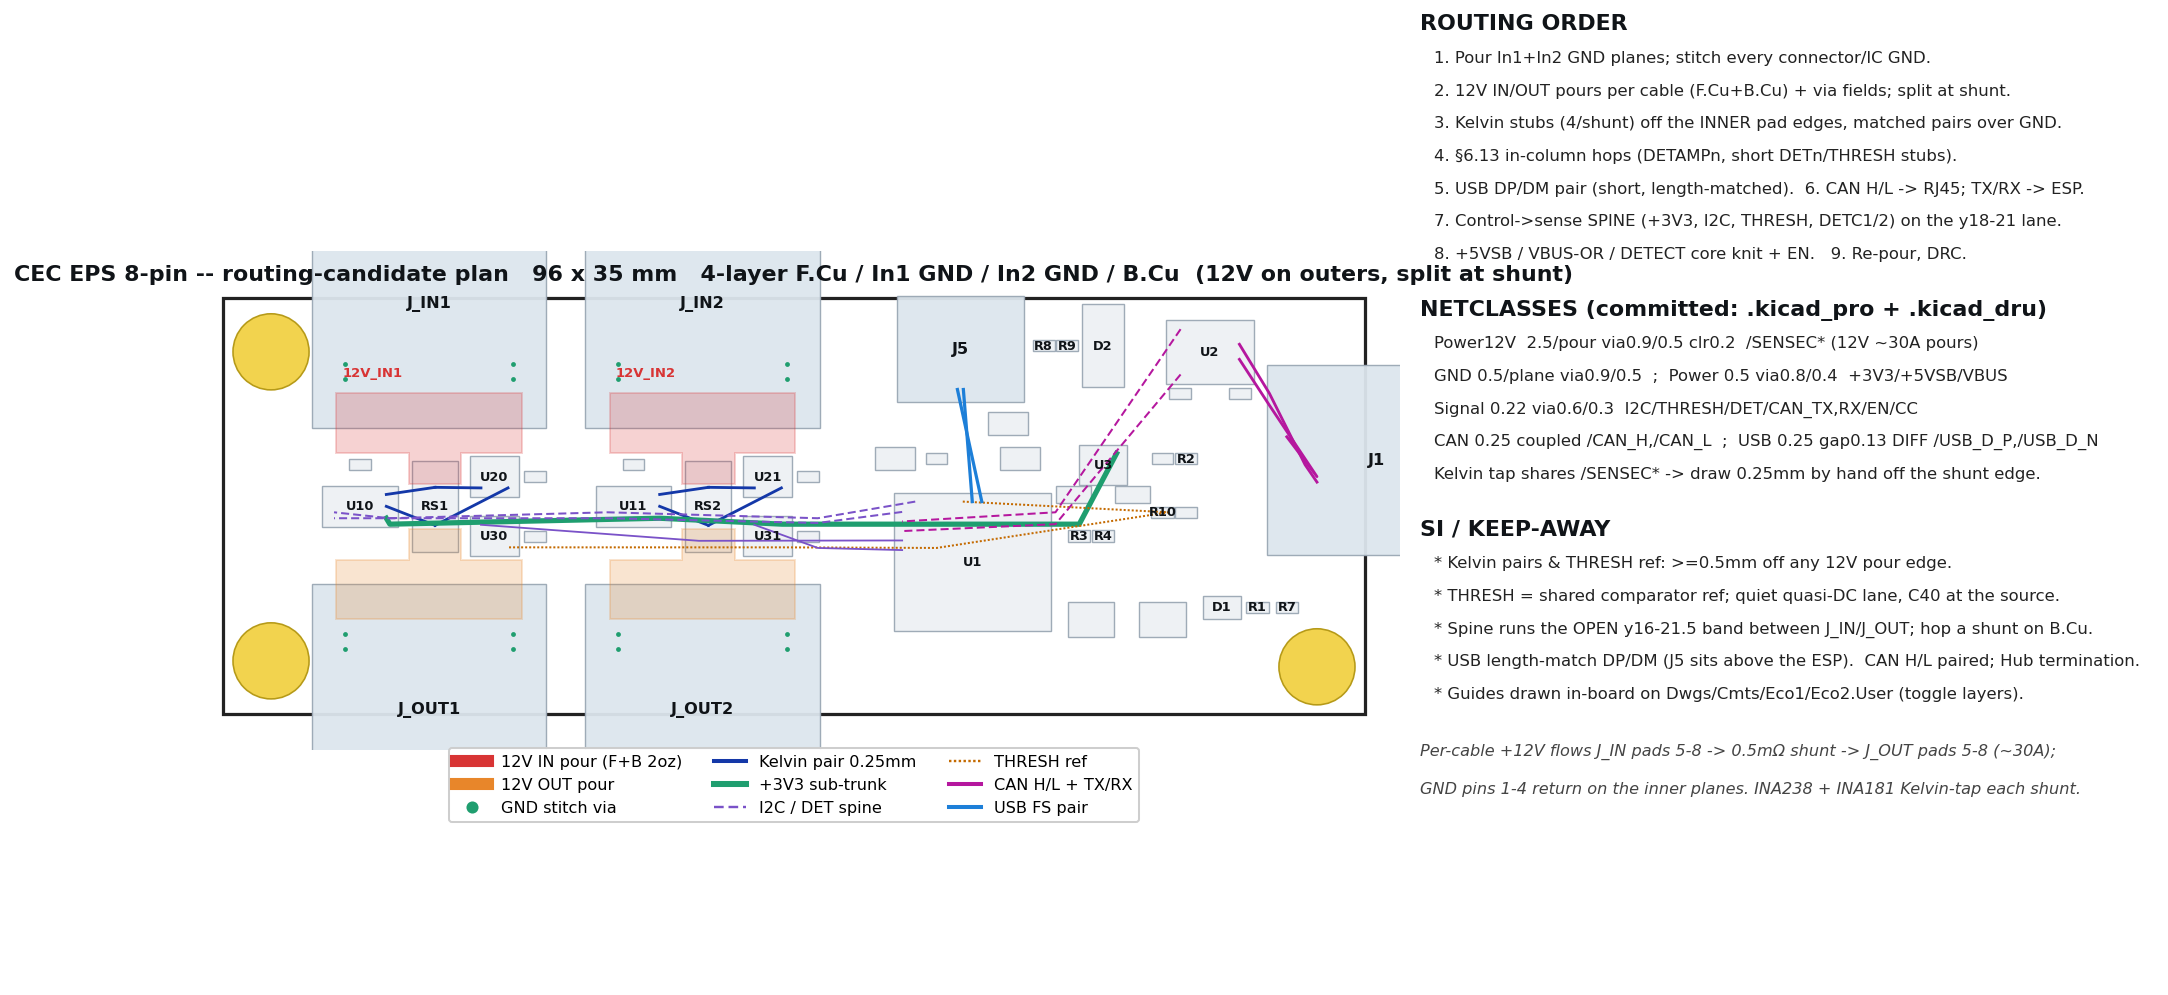
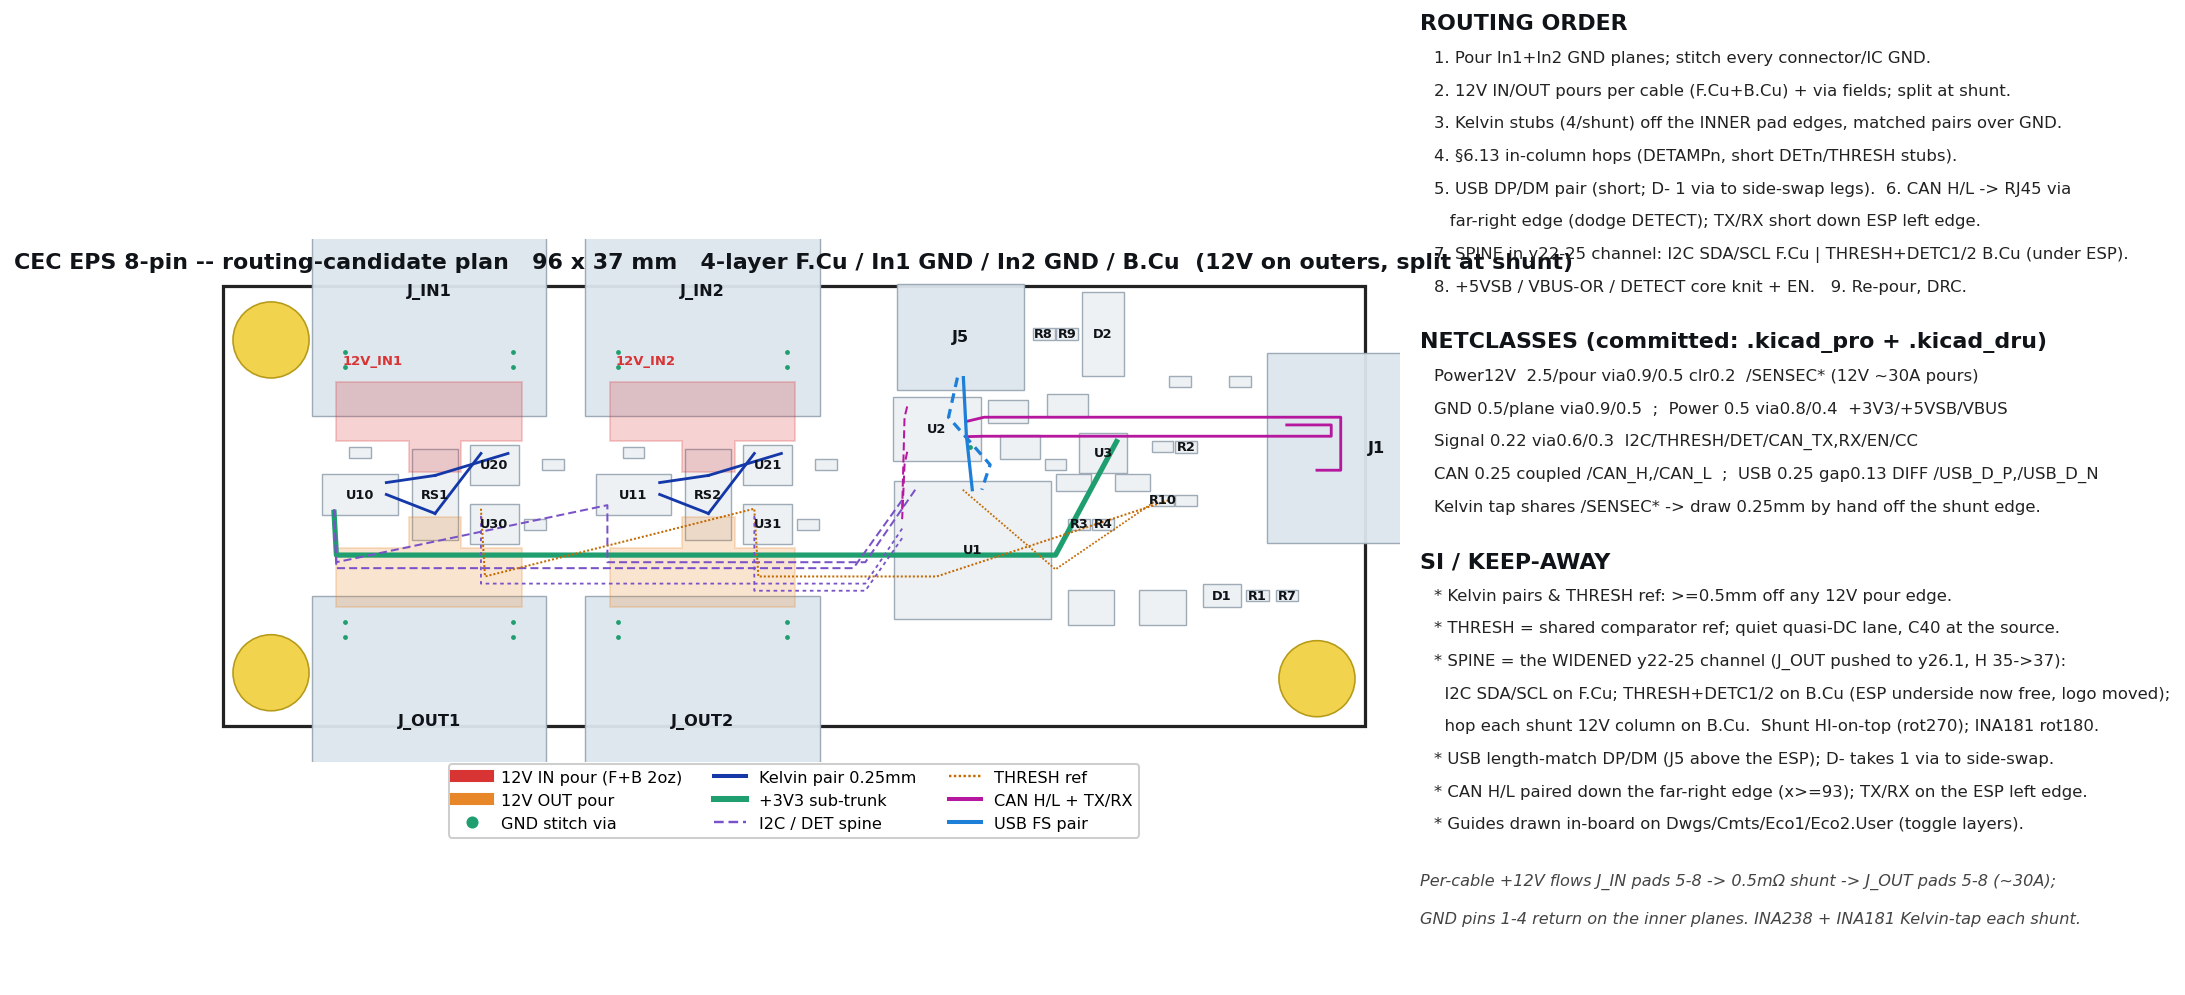
eps-8pin: revise placement + game-plan from the routing pass feedback (loop iter 2)
The routing sub-agent's snag report fed back into the placement + game-plan passes
(sub-agent revision), applied to the EPS driver and regenerated -- 0 structural DRC,
96x35 -> 96x37mm:

Placement (frame/offsets):
- H 35 -> 37: J_OUT (at H-4) drops ~2mm, widening the cross-board spine channel to
  ~4.4mm (sense parts bottom y21.7 -> J_OUT top y26.1).
- Shunt RS rot 90 -> 270: pad1 (/SENSEC*_HI, the J_IN/top side) is now the UPPER
  terminal (y14.5 vs LO y20.5), matching top->bottom flow -- the INA238 Kelvin taps no
  longer cross.
- INA181 U20/U21 rot 0 -> 180 (+ C20/C21 shifted +1.5mm) to clear the Kelvin LO escape.
- U2 (CAN) moved from the far-right to the ESP-top band (C3/C6 displaced to clear it) so
  CAN_TX/RX short-hop to the ESP CAN pads instead of crossing the whole board.
- CEC logo moved off the ESP underside (it was the sole B.Cu blocker for the ESP escapes)
  to the clear bottom-core band.

Game-plan (route_data + plan tables):
- Spine re-spec'd off the false "y17 open lane" (occupied by ESP/LDO/INA) to the widened
  y22-25 channel; layer-split I2C SDA/SCL on F.Cu, THRESH+DETC1/2 on B.Cu (now free under
  the ESP), hopping each shunt column on B.Cu.
- USB D+/D- side-swap (J5 vs ESP pin-order reversal) called out with a swap via.
- CAN_H/L routed down the far-right edge to dodge the DETECT pin + D1/R1/R7 cluster.

Next: re-run the routing pass on this revised floorplan to see the spine come into reach.

https://claude.ai/code/session_017tE5oEp5MpLASPQUuKiHC1

Changed region(s): [[0.0, 0.0, 0.9889, 0.8412], [0.649, 0.8724, 0.958, 0.9347]]

diff --git a/scripts/gen-eps-condensed.py b/scripts/gen-eps-condensed.py
@@ -16,7 +16,10 @@ import cec_pcb as cp
 
 DIR, BASE, N = "eps-8pin", "eps8pin-module", 2
 ROOT = cp.ROOT
-CX0, PITCH, H = 11.0, 23.0, 35.0     # 11mm left margin (clears a left M3), 23mm cable pitch
+# H 35 -> 37: push J_OUT down ~2mm so the cross-board spine gets a ~5mm clear channel
+# (sense parts bottom out ~y21.7, J_OUT now starts ~y26.5 -> y22-26 open). Connectors
+# overhang their edge, so a 2mm-taller board is cheap.
+CX0, PITCH, H = 11.0, 23.0, 37.0     # 11mm left margin (clears a left M3), 23mm cable pitch
 
 # ----------------------------------------------------------------- frame (anchors)
 def frame():
@@ -29,18 +32,30 @@ def frame():
         # pegless 87427: J_IN rot180 (mouth->top, GND row y4 / +12V row y9.5), J_OUT rot0
         # (mouth->bottom). J_OUT at Xc+12.6 keeps the +12V columns aligned (straight shunt).
         P[f"J_IN{c}"]  = (Xc, 4.0, 180)
-        P[f"J_OUT{c}"] = (Xc + 12.6, H - 4.0, 0)
-        P[f"RS{c}"]    = (Xc + 6.8, 17.5, 90)         # 0.5mOhm shunt, vertical in the 12V column
+        P[f"J_OUT{c}"] = (Xc + 12.6, H - 4.0, 0)      # H 37 -> J_OUT down ~2mm (wider spine channel)
+        # shunt rot 90 -> 270 so pad1 (=/SENSEC*_HI, J_IN/top side) is the UPPER terminal,
+        # matching top->bottom current flow; the INA238 Kelvin taps no longer cross. (At rot90
+        # HI sat BELOW LO -> the inversion this fixes.)
+        P[f"RS{c}"]    = (Xc + 6.8, 17.5, 270)        # 0.5mOhm shunt, vertical in the 12V column
         P[f"U1{i}"]    = (Xc + 0.5, 17.5, 0)          # INA238 (U10/U11), left of shunt
-        P[f"U2{i}"]    = (Xc + 11.8, 15.0, 0)         # INA181A2 (U20/U21), right of shunt
+        # INA181 rot 0 -> 180 so its HI/LO sense pads (3/4) face the shunt (was: +3V3/GND pads
+        # 5/6 stacked over the LO escape, blocking it).
+        P[f"U2{i}"]    = (Xc + 11.8, 15.0, 180)       # INA181A2 (U20/U21), right of shunt
         P[f"U3{i}"]    = (Xc + 11.8, 20.0, 0)         # TLV7011 (U30/U31)
     P.update({
         "J5": (ex + 8.0, 4.0, 180), "U1": (ex + 9.0, 22.0, 180), "U3": (ex + 20.0, 14.0, 0),
-        "U2": (ex + 29.0, 4.5, 0), "SW1": (ex + 19.0, 27.0, 0), "SW2": (ex + 25.0, 27.0, 0),
+        # U2 (CAN xcvr) moved from the far-right (ex+29) to the J5-bottom / ESP-top band so
+        # its CAN_TX/RX (pins 1/4, left) short-hop to the ESP's CAN pads 26/27 on the ESP left
+        # edge; CAN_H/L (pins 6/7, right) run to J1 on the right edge.
+        "U2": (ex + 6.0, 12.0, 0), "SW1": (ex + 19.0, 27.0, 0), "SW2": (ex + 25.0, 27.0, 0),
         "D2": (ex + 20.0, 4.0, 90), "J1": (ex + 38.0, 18.0, 90),
     })
     mounts = [(4.0, 4.5), (4.0, H - 4.5), (W - 4.0, H - 4.0)]
-    return W, H, ex, P, mounts, (ex + 9.0, 20.0)
+    # logo moved OFF the ESP underside (was ex+9,20 = under the ESP, the sole B.Cu blocker for
+    # signals escaping to the ESP) to a dead back-side area RIGHT of the ESP, below the SW
+    # buttons -- clear of the ESP underside, the spine, and all THT pads (only overlaps the
+    # SMD button courtyards, a different copper layer).
+    return W, H, ex, P, mounts, (W - 19.0, 26.0)
 
 # Passive engine inputs (netlist-verified): GEOM = where each decoupler sits (owner +
 # power pad, fed to cp.auto_cluster); OWN = the net it must share (fed to verify).
@@ -74,10 +89,14 @@ def offsets(ex):
     for i in range(N):
         Xc = CX0 + i * PITCH
         t[f"C1{i}"] = (Xc + 0.5, 14.0, 0)    # C10/C11 INA238 VS bypass
-        t[f"C2{i}"] = (Xc + 15.2, 15.0, 0)   # C20/C21 INA181 VS bypass
+        t[f"C2{i}"] = (Xc + 16.7, 15.0, 0)   # C20/C21 INA181 VS bypass (out +1.5mm; INA181 rot180
+                                             #   moved its sense pads, keep the LO escape clear)
         t[f"C3{i}"] = (Xc + 15.2, 20.0, 0)   # C30/C31 TLV7011 VCC bypass
     t.update({
-        "C6": (ex+2.5,13.5,0), "C3": (ex+6.0,13.5,0), "C7": (ex+13.0,13.5,0),     # ESP +3V3
+        # C6 (+5VSB entry bulk) and C3 (ESP +3V3 HF) relocated off U2's new band: C6 -> by the
+        # LDO VIN (71,10), C3 -> the +3V3 cluster (70,15). (Their old ex+2.5/ex+6.0,13.5 spots
+        # are now under U2 at (60,12).)
+        "C6": (71.0,10.0,0), "C3": (70.0,15.0,0), "C7": (ex+13.0,13.5,0),         # +5VSB / ESP +3V3
         "C1": (ex+17.5,16.5,0), "C2": (ex+22.5,16.5,0),                           # LDO in/out
         "C5": (ex+25.0,13.5,0), "R2": (ex+27.0,13.5,0),                           # ESP EN RC
         "R3": (ex+18.0,20.0,0), "R4": (ex+20.0,20.0,0),                           # I2C pull-ups
@@ -113,26 +132,49 @@ def route_data(P, comps):
                          ((rsx,15.9),pad(f"U2{i}","3")),((rsx,19.1),pad(f"U2{i}","4"))]:
             guides.append({"line":[tap,dst],"layer":"Cmts.User","w":0.25}); traces.append(([tap,dst],COL["kel"],1.4,"-"))
     guides.append({"text":"Kelvin: tap shunt INNER edge, matched pair over In1 GND","at":(11,13.2),"layer":"Cmts.User","size":0.6})
-    # control->sense spine (y18-21 split gap)
-    spine = [([pad("U3","5"),(54+18,19),(47,19),(36.7,18.5),(14,19),(13.7,18.5)], COL["p3v3"],2.6,"-"),
-             ([pad("U1","24"),(50,18.5),(32.3,18.0),(14,18.5),(9.3,18.0)], COL["sig"],1.0,(0,(4,2))),
-             ([pad("U1","25"),(50,18.9),(32.3,18.5),(9.3,18.5)], COL["sig"],1.0,(0,(4,2))),
-             ([pad("U1","19"),(79.5,18),(60,21),(46.9,20.95),(23.9,20.95)], COL["thr"],1.0,(0,(1,1))),
-             ([pad("U30","1"),(40,20.4),pad("U1","28")], COL["sig"],0.9,"-"),
-             ([pad("U31","1"),(50,21.0),pad("U1","29")], COL["sig"],0.9,"-")]
+    # control->sense SPINE -- re-spec'd off the false "y17 lane" (occupied by the ESP body
+    # y16.4-28, the LDO, and the INA238 pad rows y15.8-19.2). It now runs the WIDENED
+    # y22-25 channel (sense parts bottom ~y21.7; J_OUT pushed to y26.1). 6 nets split by layer:
+    #   F.Cu, in-channel: I2C SDA/SCL  (hop the shunt body on B.Cu where they cross a 12V column)
+    #   B.Cu (quasi-DC): THRESH (shared comparator ref) + DETC1/DETC2 -- B.Cu under the ESP is
+    #     now FREE (logo moved), so DETC1/2 dive to B.Cu right at the ESP and hop each shunt col.
+    YF, YB = 23.2, 24.4      # F.Cu I2C lane / B.Cu THRESH+DETC lane in the channel
+    spine = [
+        # +3V3 sub-trunk: LDO -> sense ICs, along the F.Cu channel top
+        ([pad("U3","5"),(70,22.6),(45,22.6),(22,22.6),(9.5,22.6),(9.3,19.0)], COL["p3v3"],2.6,"-"),
+        # I2C SDA/SCL on F.Cu in the channel (ESP left edge -> U11 -> U10)
+        ([pad("U1","24"),(54,YF),(32.3,YF),(32.3,18.4),(9.5,YF),(9.3,18.4)], COL["sig"],1.0,(0,(4,2))),
+        ([pad("U1","25"),(53,YF+0.5),(32.3,YF+0.5),(9.5,YF+0.5),(9.3,18.9)], COL["sig"],1.0,(0,(4,2))),
+        # THRESH (shared ref): R10 near ESP -> TLV U31.4 / U30.4, on B.Cu
+        ([pad("R10","2"),(60,YB),(45,YB),(44.66,18.7),(22,YB),(21.66,18.7)], COL["thr"],1.0,(0,(1,1))),
+        # THRESH_PWM stub: ESP IO19 -> R10 (short)
+        ([pad("U1","19"),(70,YB-0.6),pad("R10","1")], COL["thr"],0.9,(0,(1,1))),
+        # DETC1/DETC2: ESP -> B.Cu (under ESP now free) -> TLV outputs, hop each shunt col on B.Cu
+        ([pad("U1","28"),(54,YB+0.6),(40,YB+0.6),(21.66,YB+0.6),pad("U30","1")], COL["sig"],0.9,(0,(2,2))),
+        ([pad("U1","29"),(54,YB+1.2),(44.66,YB+1.2),pad("U31","1")], COL["sig"],0.9,(0,(2,2))),
+    ]
     for pts,c,w,ls in spine:
         guides.append({"line":pts,"layer":"Eco1.User","w":0.22}); traces.append((pts,c,w,ls))
-    guides.append({"text":"SPINE: +3V3 / I2C / THRESH / DETC  (y18-21 split gap; hop shunt on B.Cu)","at":(52,22.6),"layer":"Eco1.User","size":0.6})
+    guides.append({"text":"SPINE y22-25: I2C SDA/SCL F.Cu | THRESH+DETC1/2 B.Cu (under ESP free) | hop shunt cols on B.Cu","at":(28,25.6),"layer":"Eco1.User","size":0.55})
     # CAN + USB
-    can = [([pad("U2","7"),(88,8),(91,14),pad("J1","3")], COL["can"],1.4,"-"),
-           ([pad("U2","6"),(88,9),(92,15),pad("J1","6")], COL["can"],1.4,"-"),
-           ([pad("U2","1"),(70,18),pad("U1","26")], COL["can"],1.0,(0,(4,2))),
-           ([pad("U2","4"),(70,19),pad("U1","27")], COL["can"],1.0,(0,(4,2))),
-           ([pad("J5","A6"),pad("U1","18")], COL["usb"],1.6,"-"),
-           ([pad("J5","A7"),pad("U1","17")], COL["usb"],1.6,"-")]
-    for pts,c,w,ls in can:
+    # CAN_H/L (U2 now in the J5-bottom / ESP-top band, pins 6/7 on its right) run UP+OVER and
+    # down the FAR-RIGHT board edge (x>=93) to enter J1 from the right -- this DODGES the DETECT
+    # pin J1.8 (89.5,9.1) and the D1/R1/R7 DETECT cluster (~x84-89, y26) rather than crossing them.
+    # CAN_TX/RX (U2 pins 1/4 on its left) short-hop straight DOWN the ESP left edge to IO20/IO21.
+    can = [([pad("U2","7"),(64,11),(94,11),(94,15.46),pad("J1","3")], COL["can"],1.4,"-"),    # CAN_H far-right edge
+           ([pad("U2","6"),(64,12.6),(93.2,12.6),(93.2,11.65),pad("J1","6")], COL["can"],1.4,"-"),  # CAN_L far-right edge
+           ([pad("U2","1"),(57.3,11),(57.1,18.77)], COL["can"],1.0,(0,(4,2))),                 # CAN_TX -> ESP IO20
+           ([pad("U2","4"),(57.3,15),(57.1,19.58)], COL["can"],1.0,(0,(4,2)))]                 # CAN_RX -> ESP IO21
+    # USB FS pair J5 -> ESP. SIDE-SWAP: J5 has D+ to the RIGHT of D-, the ESP has D+ to the LEFT
+    # of D- -> the pair crosses, so D- takes one via to swap legs (drawn as a B.Cu hop midspan).
+    usb = [([pad("J5","A6"),(62.5,12.5),pad("U1","18")], COL["usb"],1.6,"-"),                  # D+ stays F.Cu
+           ([pad("J5","A7"),(61.0,11.0),(64.5,15.0),pad("U1","17")], COL["usb"],1.6,(0,(3,2)))]# D- via-swap leg
+    usb_via = (62.8, 13.5)   # the swap via on the D- leg
+    vias.append(usb_via)
+    for pts,c,w,ls in can+usb:
         guides.append({"line":pts,"layer":"Eco2.User","w":(0.25 if c==COL["usb"] or w>1 else 0.22)}); traces.append((pts,c,w,ls))
-    guides.append({"text":"CAN pair -> RJ45 / USB FS pair -> ESP (length-match)","at":(72,11),"layer":"Eco2.User","size":0.6})
+    guides.append({"text":"CAN H/L down FAR-RIGHT edge (dodge DETECT J1.8 + D1/R1/R7) | TX/RX short to ESP","at":(64,9),"layer":"Eco2.User","size":0.55})
+    guides.append({"text":"USB FS: D+ F.Cu / D- 1 via to side-swap (J5 D+ right, ESP D+ left)","at":(54,15.8),"layer":"Eco2.User","size":0.5})
     return guides, pours, traces, vias
 
 # ----------------------------------------------------------------- netclasses + DRU
@@ -195,8 +237,9 @@ def main():
             "2. 12V IN/OUT pours per cable (F.Cu+B.Cu) + via fields; split at shunt.",
             "3. Kelvin stubs (4/shunt) off the INNER pad edges, matched pairs over GND.",
             "4. §6.13 in-column hops (DETAMPn, short DETn/THRESH stubs).",
-            "5. USB DP/DM pair (short, length-matched).  6. CAN H/L -> RJ45; TX/RX -> ESP.",
-            "7. Control->sense SPINE (+3V3, I2C, THRESH, DETC1/2) on the y18-21 lane.",
+            "5. USB DP/DM pair (short; D- 1 via to side-swap legs).  6. CAN H/L -> RJ45 via",
+            "   far-right edge (dodge DETECT); TX/RX short down ESP left edge.",
+            "7. SPINE in y22-25 channel: I2C SDA/SCL F.Cu | THRESH+DETC1/2 B.Cu (under ESP).",
             "8. +5VSB / VBUS-OR / DETECT core knit + EN.   9. Re-pour, DRC."]),
             ("NETCLASSES (committed: .kicad_pro + .kicad_dru)", [
             "Power12V  2.5/pour via0.9/0.5 clr0.2  /SENSEC* (12V ~30A pours)",
@@ -207,8 +250,11 @@ def main():
             ("SI / KEEP-AWAY", [
             "* Kelvin pairs & THRESH ref: >=0.5mm off any 12V pour edge.",
             "* THRESH = shared comparator ref; quiet quasi-DC lane, C40 at the source.",
-            "* Spine runs the OPEN y16-21.5 band between J_IN/J_OUT; hop a shunt on B.Cu.",
-            "* USB length-match DP/DM (J5 sits above the ESP).  CAN H/L paired; Hub termination.",
+            "* SPINE = the WIDENED y22-25 channel (J_OUT pushed to y26.1, H 35->37):",
+            "  I2C SDA/SCL on F.Cu; THRESH+DETC1/2 on B.Cu (ESP underside now free, logo moved);",
+            "  hop each shunt 12V column on B.Cu.  Shunt HI-on-top (rot270); INA181 rot180.",
+            "* USB length-match DP/DM (J5 above the ESP); D- takes 1 via to side-swap.",
+            "* CAN H/L paired down the far-right edge (x>=93); TX/RX on the ESP left edge.",
             "* Guides drawn in-board on Dwgs/Cmts/Eco1/Eco2.User (toggle layers)."])]
         cp.routing_plan_png(f"{mod}/eps-routing-plan.png",
             W=W, H=H_, title=f"CEC EPS 8-pin -- routing-candidate plan   {W:.0f} x {H_:.0f} mm   "
